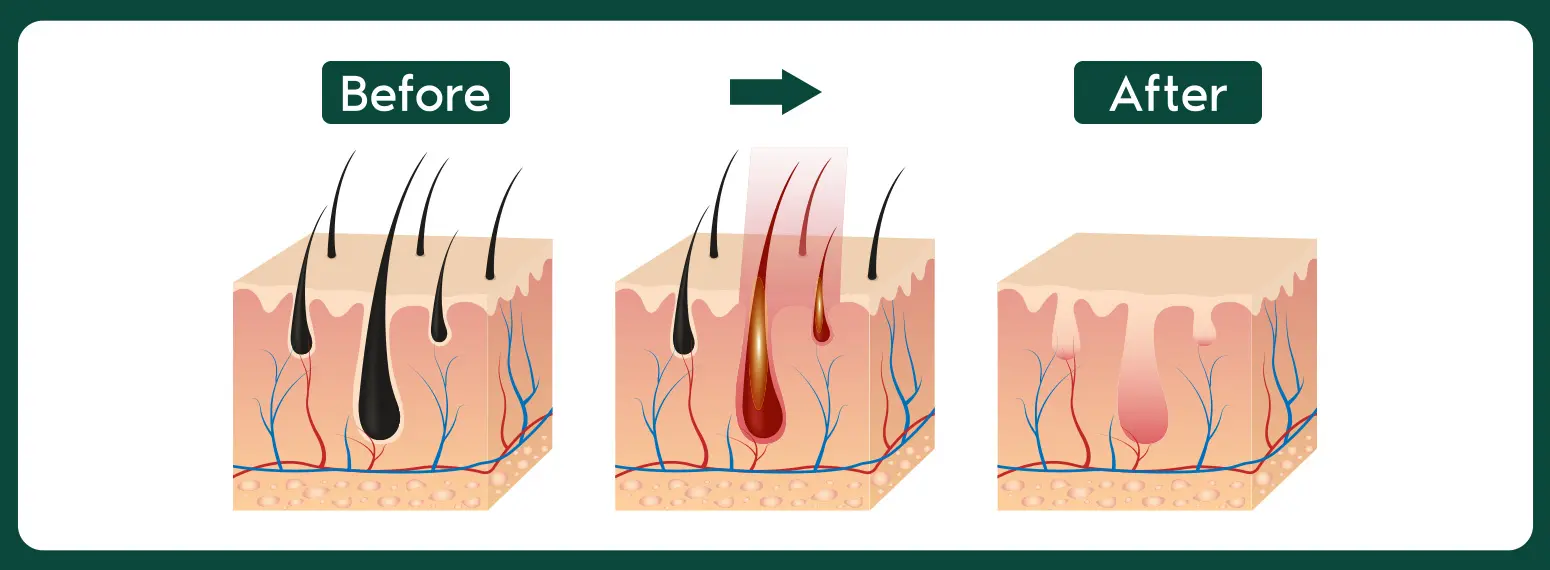
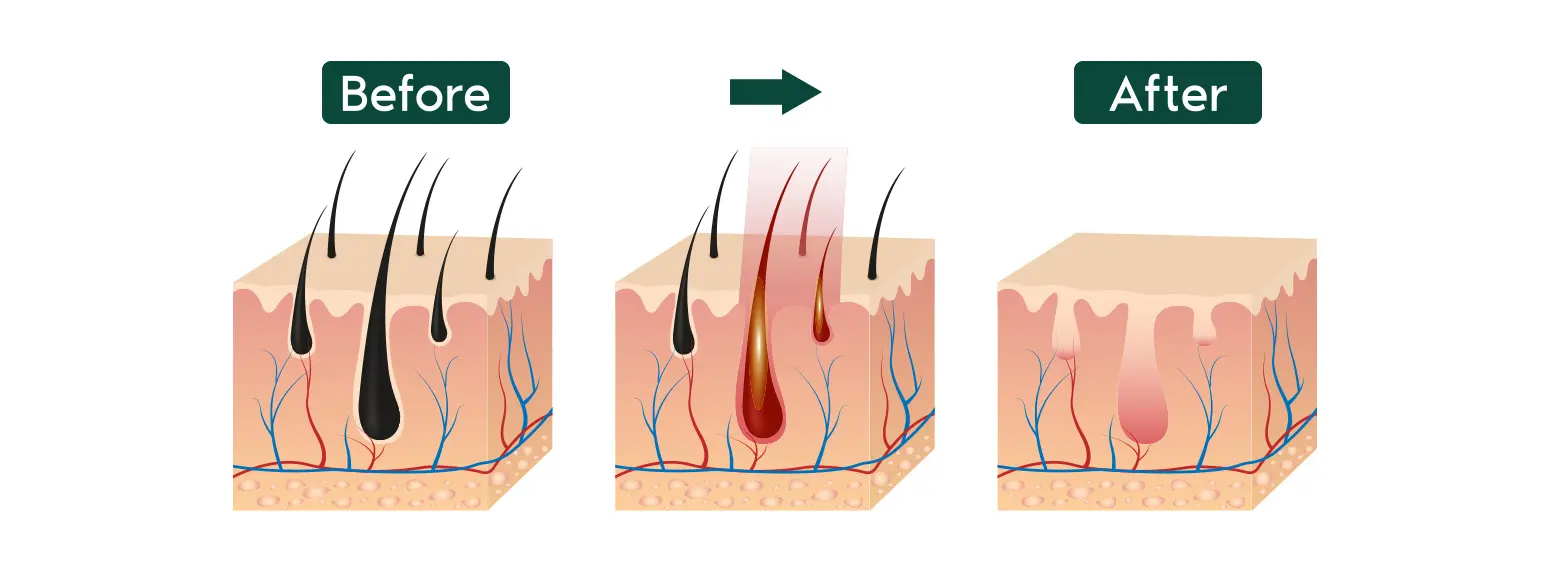
update images.

Changed region(s): [[0.0, 0.0, 1.0, 1.0]]

diff --git a/src/app/service/(base)/hair-removal/page.tsx b/src/app/service/(base)/hair-removal/page.tsx
@@ -47,7 +47,7 @@ export default async function Page() {
       <section className="bg-accent">
         <div className="container space-y-2">
           <Image
-            className="rounded-lg sm:rounded-2xl lg:rounded-3xl"
+            className="border-6 sm:border-12 border-secondary rounded-4xl"
             src={`/service/hair-removal/popular-treatment-areas-${locale}.webp`}
             alt={t("msg05")}
             width={1550}
@@ -76,7 +76,7 @@ export default async function Page() {
             <li>{t("msg17")}</li>
           </ul>
           <Image
-            className="rounded-lg sm:rounded-2xl lg:rounded-3xl"
+            className="border-6 sm:border-12 border-secondary rounded-4xl"
             src="/service/hair-removal/before-after-hair-loss.webp"
             alt={t("msg12")}
             width={1550}

diff --git a/src/app/service/(base)/thread-lifting/page.tsx b/src/app/service/(base)/thread-lifting/page.tsx
@@ -74,7 +74,7 @@ export default async function Page() {
             </li>
           </ul>
           <Image
-            className="rounded-lg sm:rounded-2xl lg:rounded-3xl"
+            className="border-6 sm:border-12 border-secondary rounded-4xl"
             src="/service/thread-lifting/thread-types.webp"
             alt={t("msg05")}
             width={1550}
@@ -94,7 +94,7 @@ export default async function Page() {
             <li>{t("msg17")}</li>
           </ul>
           <Image
-            className="rounded-lg sm:rounded-2xl lg:rounded-3xl"
+            className="border-6 sm:border-12 border-secondary rounded-4xl"
             src="/service/thread-lifting/thread-lift.webp"
             alt={t("msg12")}
             width={1550}

diff --git a/src/app/service/(base)/onda/page.tsx b/src/app/service/(base)/onda/page.tsx
@@ -57,7 +57,7 @@ export default async function Page() {
         <div className="container space-y-2">
           <h3 className="text-2xl text-start">{t("msg05")}</h3>
           <Image
-            className="rounded-lg sm:rounded-2xl lg:rounded-3xl"
+            className="border-6 sm:border-12 border-secondary rounded-4xl"
             src="/service/onda/pocket-shallow-deep.webp"
             alt={t("msg05")}
             width={1550}

diff --git a/src/app/service/(base)/drip-treatment/page.tsx b/src/app/service/(base)/drip-treatment/page.tsx
@@ -56,7 +56,7 @@ export default async function Page() {
       <section className="bg-accent">
         <div className="container space-y-2">
           <Image
-            className="rounded-lg sm:rounded-2xl lg:rounded-3xl"
+            className="border-6 sm:border-12 border-secondary rounded-4xl"
             src={`/service/drip-treatment/drip-programs2-${locale}.webp`}
             alt={t("msg05")}
             width={1200}

diff --git a/src/app/service/(base)/v-shaped-face/page.tsx b/src/app/service/(base)/v-shaped-face/page.tsx
@@ -56,7 +56,7 @@ export default async function Page() {
       <section className="bg-accent">
         <div className="container space-y-2">
           <Image
-            className="rounded-lg sm:rounded-2xl lg:rounded-3xl"
+            className="border-6 sm:border-12 border-secondary rounded-4xl"
             src={`/service/v-shaped-face/v-shaped-face-${locale}.webp`}
             alt={t("msg05")}
             width={1200}

diff --git a/src/app/service/(base)/weight-loss-pen/page.tsx b/src/app/service/(base)/weight-loss-pen/page.tsx
@@ -66,7 +66,7 @@ export default async function Page() {
             </ul>
           </div>
           <Image
-            className="size-72 rounded-xl object-cover"
+            className="size-72 object-cover border-4 sm:border-8 border-secondary rounded-4xl"
             src="/service/weight-loss-pen/how-it-works.webp"
             alt={t("msg05")}
             width={1200}

diff --git a/src/app/service/(base)/filler/page.tsx b/src/app/service/(base)/filler/page.tsx
@@ -79,7 +79,7 @@ export default async function Page() {
             </li>
           </ul>
           <Image
-            className="rounded-xl sm:rounded-2xl lg:rounded-4xl"
+            className="border-6 sm:border-12 border-secondary rounded-4xl"
             src="/service/filler/before-after-filler.webp"
             alt={t("msg05")}
             width={1550}

diff --git a/src/components/header.tsx b/src/components/header.tsx
@@ -36,7 +36,11 @@ export default async function Header() {
           ))}
         </ul>
 
-        <Link className="pill ml-2 mr-4" href="/">
+        <Link
+          className="pill ml-2 mr-4"
+          href="https://lin.ee/h7WJ6IU"
+          target="_blank"
+        >
           {t("booking")}
         </Link>
 
